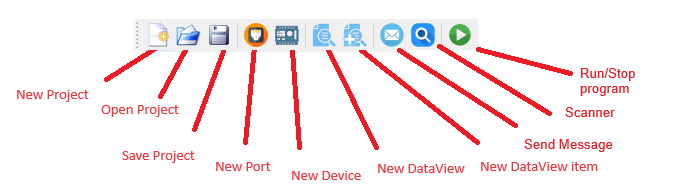
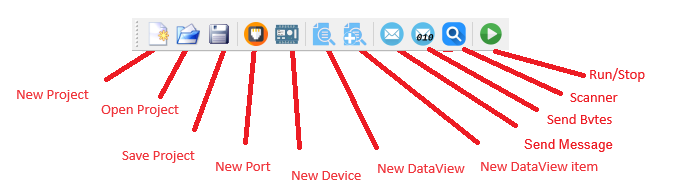
Update docs

Changed region(s): [[0.1829, 0.0938, 0.9448, 0.6562]]

diff --git a/doc/input/server/server.md b/doc/input/server/server.md
@@ -417,6 +417,7 @@ set unit reference(s);
 * `Delete Device` - delete selected device from current port;
 * `Import Port...` - import new port in project from file in `xml`-format;
 * `Export Port...` - export selected port in project to file in `xml`-format;
+* `Statistics...` - open statistics window for current port.
 
 ### Device
 
@@ -428,13 +429,14 @@ In this menu port for current device can be changed;
 * `Delete Device` - delete active device;
 * `Import Device...` - import new device in project from file in `xml`-format;
 * `Export Device...` - export selected device in project to file in `xml`-format;
-* `Zerro Memory` – zerro all memory values in current memory tab of active device;
-* `Zerro Memory All` - zerro all memory values of all memory types of active device;
+* `Zero Memory` – zerro all memory values in current memory tab of active device;
+* `Zero Memory All` - zerro all memory values of all memory types of active device;
 * `Import Memory...` - fill current memory values from file in `.csv` format;
 * `Export memory` - dump current memory values to file in `.csv` format;
 * `Script Init...` - open initialize script for current device;
 * `Script Loop...` - open loop script for current device;
 * `Script Final...` - open finalize script for current device;
+* `Statistics...` - open statistics window for current device.
 
 ### Data
 

diff --git a/doc/input/client/client.md b/doc/input/client/client.md
@@ -265,6 +265,7 @@ bind newly created device to selected port;
 * `Clear All Devices` - delete all devices for selected port;
 * `Import Port...` - import new port in project from file in `xml`-format;
 * `Export Port...` - export selected port in project to file in `xml`-format;
+* `Statistics...` - open statistics window for current port.
 
 ### Device
 The `Device` menu provides access to work with device and includes submenus:
@@ -274,6 +275,7 @@ In this menu port for current device can be changed;
 * `Delete Device` - delete active device;
 * `Import Device...` - import new device in project from file in `xml`-format;
 * `Export Device...` - export selected device in project to file in `xml`-format;
+* `Statistics...` - open statistics window for current device.
 
 ### Data
 The `Data` menu provides access to work with DataViews and DataViewItems and includes submenus:

diff --git a/doc/input/shared/mainpage.md b/doc/input/shared/mainpage.md
@@ -24,7 +24,7 @@ Supported Modbus functions:
 * `20` (`0x14`) - `READ_FILE_RECORD` (v0.5+)
 * `21` (`0x15`) - `WRITE_FILE_RECORD` (v0.5+)
 * `22` (`0x16`) - `MASK_WRITE_REGISTER` (v0.3+)
-* `23` (`0x17`) - `READ_WRITE_MULTIPLE_REGISTERS` (since v0.3)
+* `23` (`0x17`) - `READ_WRITE_MULTIPLE_REGISTERS` (v0.3+)
 * `24` (`0x18`) - `READ_FIFO_QUEUE` (v0.5+)
 * `43/14` (`0x2B/0x0E`) - `READ_DEVICE_ID` (v0.5+)
 